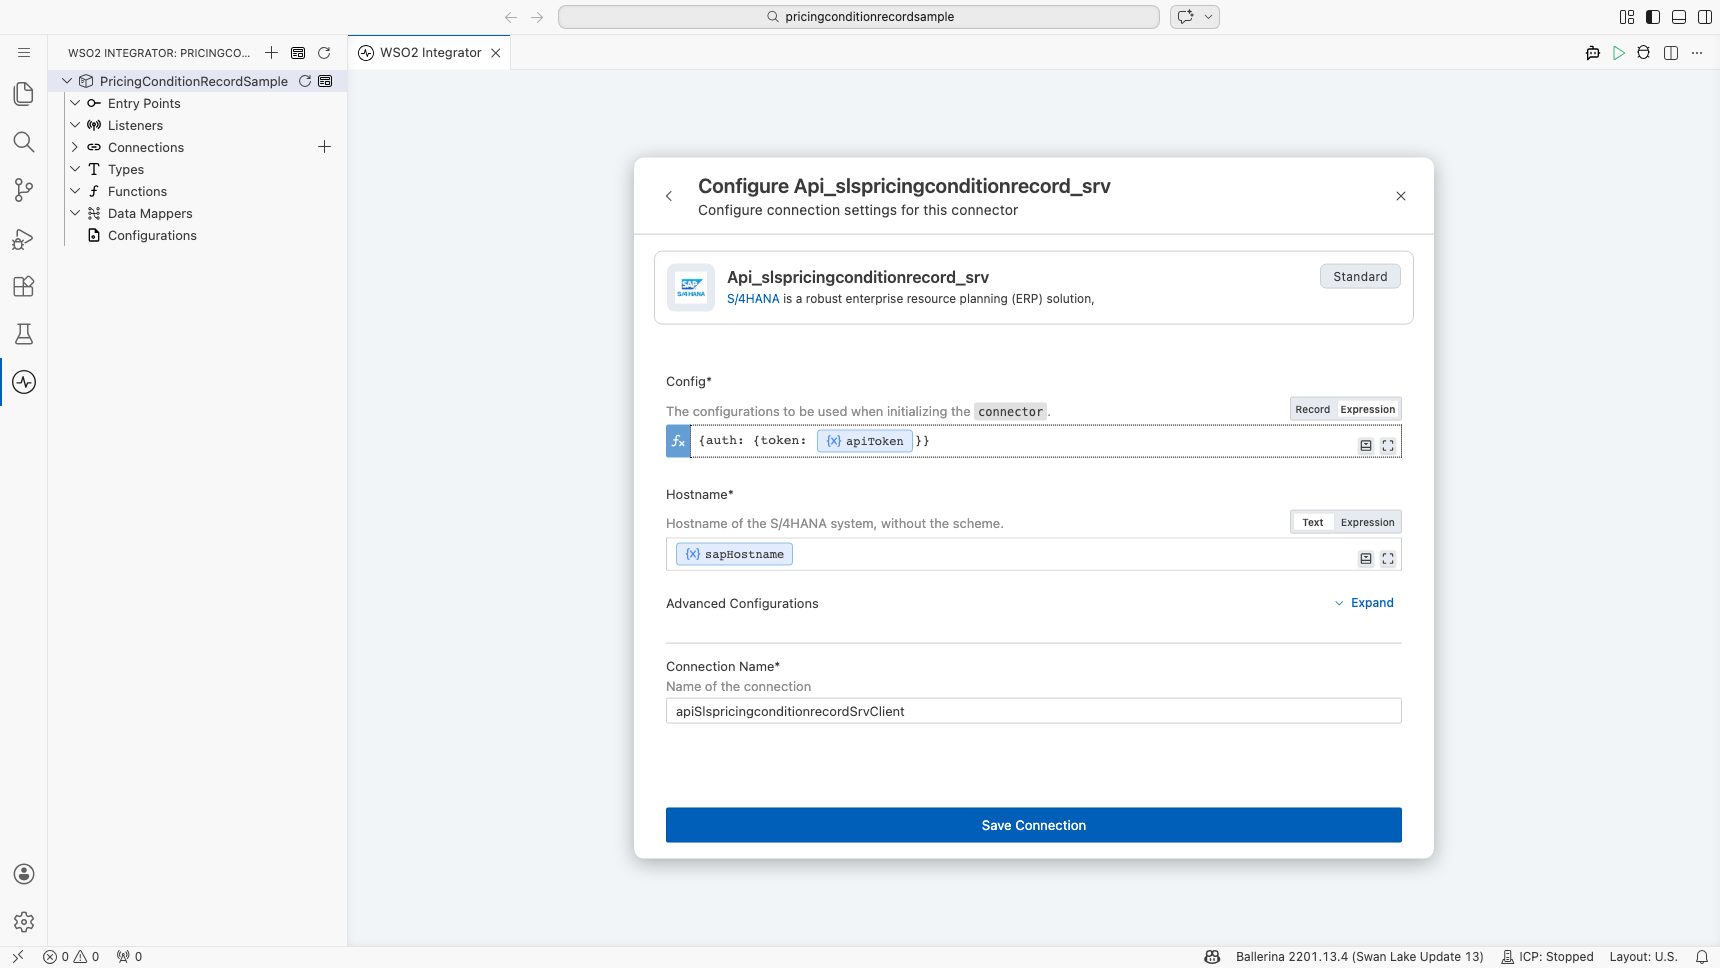
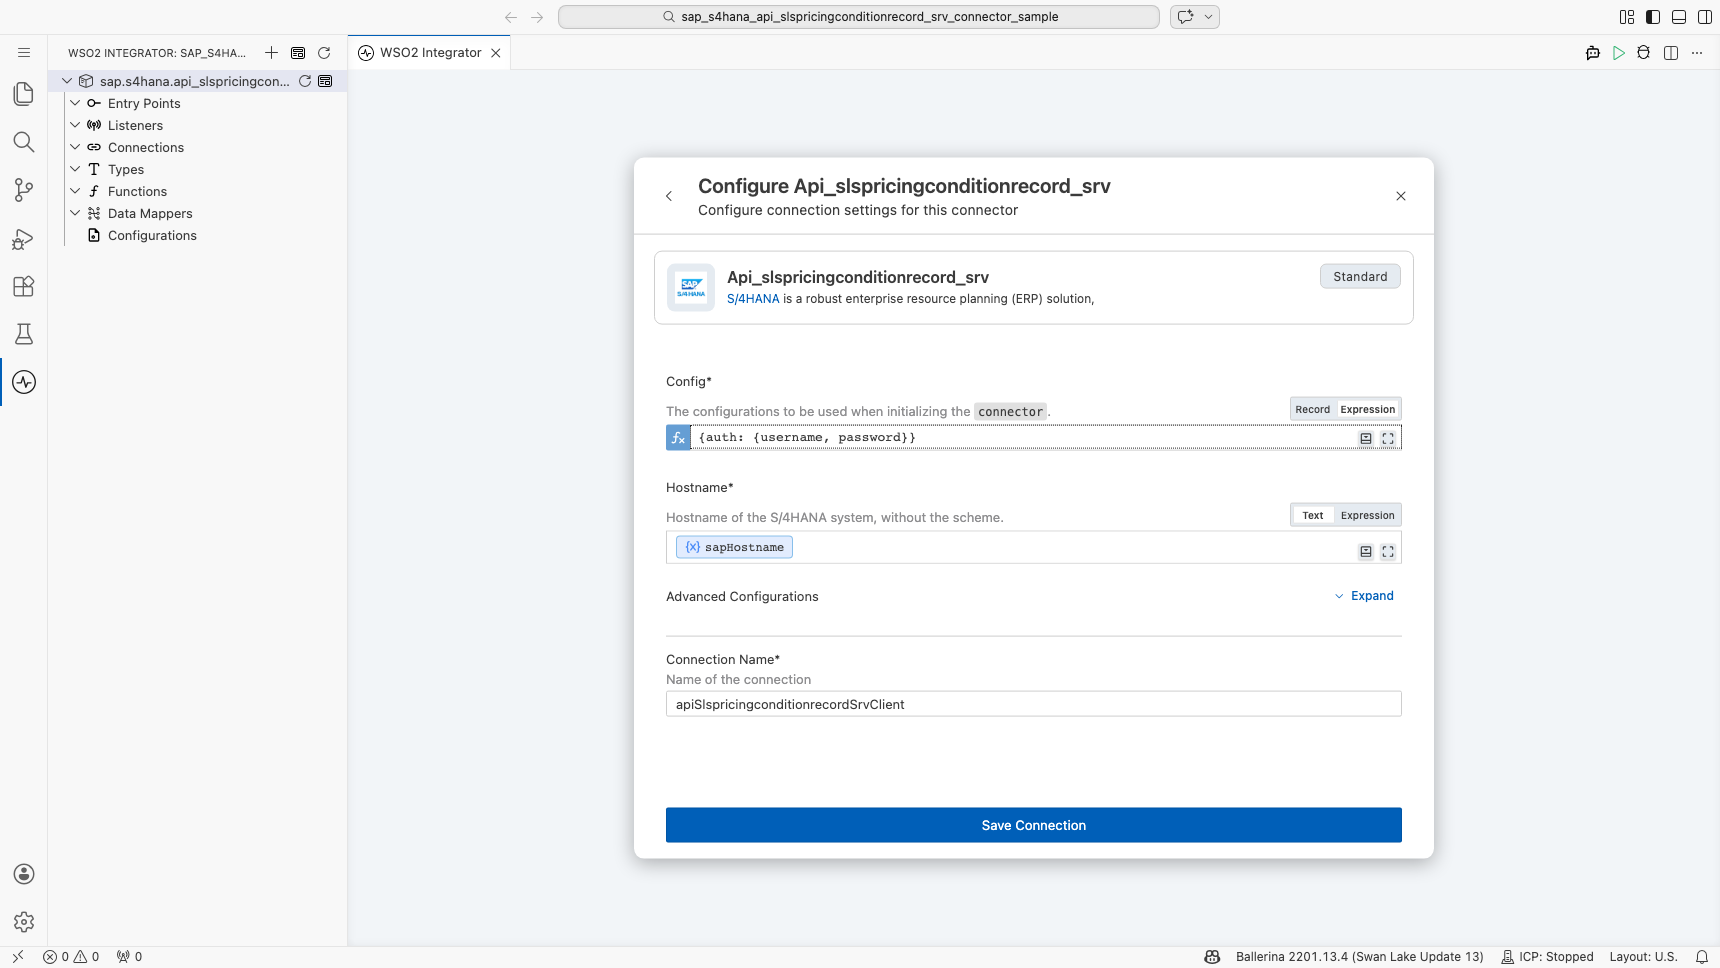
Rework example to a list operation with username/password auth, and drop Ballerina platform mentions
Re-captures the low-code screenshots using listA_SlsPrcgConditionRecords and http:CredentialsConfig (username/password) instead of the earlier create operation and bearer token, and rephrases prose to refer to the connector rather than the Ballerina platform.

diff --git a/en/docs/connectors/catalog/erp-business/sap.s4hana.api_slspricingconditionrecord_srv/example.md b/en/docs/connectors/catalog/erp-business/sap.s4hana.api_slspricingconditionrecord_srv/example.md
@@ -2,16 +2,16 @@
 
 ## What you'll build
 
-Build an automation that connects to an SAP S/4HANA system and creates a pricing condition record using the Condition Record for Pricing in Sales API. The automation logs the created record as a JSON string for inspection.
+Build an automation that connects to an SAP S/4HANA system and lists pricing condition records using the Condition Record for Pricing in Sales API. The automation logs the retrieved records as a JSON string for inspection.
 
 **Operations used:**
-- **Create A Sls Prcg Condition Record** : Creates one or more condition records.
+- **List A Sls Prcg Condition Records** : Reads all condition records in the system.
 
 ## Architecture
 
 ```mermaid
 flowchart LR
-    A((User)) --> B[Create A Sls Prcg Condition Record]
+    A((User)) --> B[List A Sls Prcg Condition Records]
     B --> C[SAP Sales Pricing Condition Record Connector]
     C --> D((SAP S/4HANA))
 ```
@@ -19,8 +19,7 @@ flowchart LR
 ## Prerequisites
 
 - Access to an SAP S/4HANA system with the Condition Record for Pricing in Sales API enabled
-- SAP hostname and an authentication token
-- A condition table, application, and condition type already configured in your SAP system
+- SAP hostname, username, and password
 
 ## Setting up the SAP Sales Pricing Condition Record integration
 
@@ -45,7 +44,7 @@ Select **Add Connection** in the **Connections** section.
 
 Bind every required connection field to a configurable variable.
 
-- **Config** : Authentication configuration for the connector; bind the `token` field to a configurable variable.
+- **Config** : Authentication configuration for the connector; bind the `username` and `password` fields to configurable variables.
 - **Hostname** : The SAP S/4HANA server hostname; bind to a configurable variable.
 
 ![SAP Sales Pricing Condition Record connection form with all parameters bound before saving](/img/connectors/catalog/erp-business/sap.s4hana.api_slspricingconditionrecord_srv/ballerinax_sap_s4hana_api_slspricingconditionrecord_srv_screenshot_02_connection_form.png)
@@ -62,9 +61,10 @@ Select **Save** and verify that the connection appears in the **Connections** se
 2. Enter a value for each configurable listed below before you run the integration.
 
 - **sapHostname** (`string`) : The SAP S/4HANA server hostname.
-- **apiToken** (`string`) : The authentication token for SAP access.
+- **username** (`string`) : The username for SAP access.
+- **password** (`string`) : The password for SAP access.
 
-## Configuring the SAP Sales Pricing Condition Record Create A Sls Prcg Condition Record operation
+## Configuring the SAP Sales Pricing Condition Record List A Sls Prcg Condition Records operation
 
 ### Step 6: Add an automation entry point
 
@@ -72,22 +72,20 @@ Select **Save** and verify that the connection appears in the **Connections** se
 2. Select **Automation**.
 3. Select **Create** to accept the settings.
 
-### Step 7: Expand the connection and configure the Create A Sls Prcg Condition Record operation
+### Step 7: Expand the connection and configure the List A Sls Prcg Condition Records operation
 
 1. Select **Add Step** in the automation flow.
 2. Expand **apiSlspricingconditionrecordSrvClient** to display its operations.
 
 ![SAP Sales Pricing Condition Record connection expanded to display operations before selection](/img/connectors/catalog/erp-business/sap.s4hana.api_slspricingconditionrecord_srv/ballerinax_sap_s4hana_api_slspricingconditionrecord_srv_screenshot_04_operations_panel.png)
 
-3. Select **Create A Sls Prcg Condition Record** and enter its required values.
+3. Select **List A Sls Prcg Condition Records**. This operation has no required parameters.
 
-- **Payload** : The new condition record entity — its number, sequential number, condition table, application, and condition type.
-
-![SAP Sales Pricing Condition Record Create A Sls Prcg Condition Record operation with all values entered before saving](/img/connectors/catalog/erp-business/sap.s4hana.api_slspricingconditionrecord_srv/ballerinax_sap_s4hana_api_slspricingconditionrecord_srv_screenshot_05_operation_form.png)
+![SAP Sales Pricing Condition Record List A Sls Prcg Condition Records operation before saving](/img/connectors/catalog/erp-business/sap.s4hana.api_slspricingconditionrecord_srv/ballerinax_sap_s4hana_api_slspricingconditionrecord_srv_screenshot_05_operation_form.png)
 
 4. Select **Save**.
 
-### Step 8: Log the Create A Sls Prcg Condition Record result
+### Step 8: Log the List A Sls Prcg Condition Records result
 
 Add a log action for the returned value, then return to the visual flow.
 
@@ -103,13 +101,13 @@ Try this sample in WSO2 Integration Platform.
 
 ## More code examples
 
-The S/4 HANA Sales and Distribution Ballerina connectors provide practical examples illustrating usage in various
+The S/4 HANA Sales and Distribution connectors provide practical examples illustrating usage in various
 scenarios. Explore
 these [examples](https://github.com/ballerina-platform/module-ballerinax-sap.s4hana.sales/tree/main/examples), covering
 use cases like accessing S/4HANA Sales Order (A2X) API.
 
 1. [Salesforce to S/4HANA Integration](https://github.com/ballerina-platform/module-ballerinax-sap.s4hana.sales/tree/main/examples/salesforce-to-sap) -
-   Demonstrates leveraging the `sap.s4hana.api_sales_order_srv:Client` in Ballerina for S/4HANA API interactions. It
+   Demonstrates leveraging the `sap.s4hana.api_sales_order_srv:Client` connector for S/4HANA API interactions. It
    specifically showcases how to respond to a Salesforce Opportunity Close Event by automatically generating a Sales
    Order in the S/4HANA SD module.
 

diff --git a/en/docs/connectors/catalog/erp-business/sap.s4hana.api_slspricingconditionrecord_srv/sap-sales-pricing-condition-record-connector-overview.md b/en/docs/connectors/catalog/erp-business/sap.s4hana.api_slspricingconditionrecord_srv/sap-sales-pricing-condition-record-connector-overview.md
@@ -4,7 +4,7 @@ title: "Overview"
 
 # Overview
 
-SAP Sales Pricing Condition Record is an S/4HANA OData (Pricing Data Integration) API that provides programmatic access to pricing condition records used in sales order pricing. The Ballerina `ballerinax/sap.s4hana.api_slspricingconditionrecord_srv` connector enables you to create, read, update, and delete condition records, their validity periods, pricing scales, condition supplements, and description texts directly from your Ballerina integration flows.
+SAP Sales Pricing Condition Record is an S/4HANA OData (Pricing Data Integration) API that provides programmatic access to pricing condition records used in sales order pricing. The `ballerinax/sap.s4hana.api_slspricingconditionrecord_srv` connector enables you to create, read, update, and delete condition records, their validity periods, pricing scales, condition supplements, and description texts directly from your integration flows.
 
 
 ## Key features
@@ -20,7 +20,7 @@ SAP Sales Pricing Condition Record is an S/4HANA OData (Pricing Data Integration
 
 ## Actions
 
-Actions are operations you invoke on SAP S/4HANA from your Ballerina integration. Use these actions for listing and filtering condition records, publishing new pricing data, updating existing records, and managing sub-entities such as validity periods, pricing scales, condition supplements, and texts.
+Actions are operations you invoke on SAP S/4HANA from your integration. Use these actions for listing and filtering condition records, publishing new pricing data, updating existing records, and managing sub-entities such as validity periods, pricing scales, condition supplements, and texts.
 
 
 | Client | Actions |

diff --git a/en/docs/connectors/catalog/erp-business/sap.s4hana.api_slspricingconditionrecord_srv/setup-guide.md b/en/docs/connectors/catalog/erp-business/sap.s4hana.api_slspricingconditionrecord_srv/setup-guide.md
@@ -21,7 +21,7 @@ This guide walks you through configuring an SAP S/4HANA Communication Arrangemen
 6. Select **Create** to save the communication user.
 
 :::tip
-Store the username and password securely. These credentials will be used as the `auth` configuration when initializing the Ballerina connector client.
+Store the username and password securely. These credentials will be used as the `auth` configuration when initializing the connector client.
 :::
 
 ## Step 2: Create a communication system
